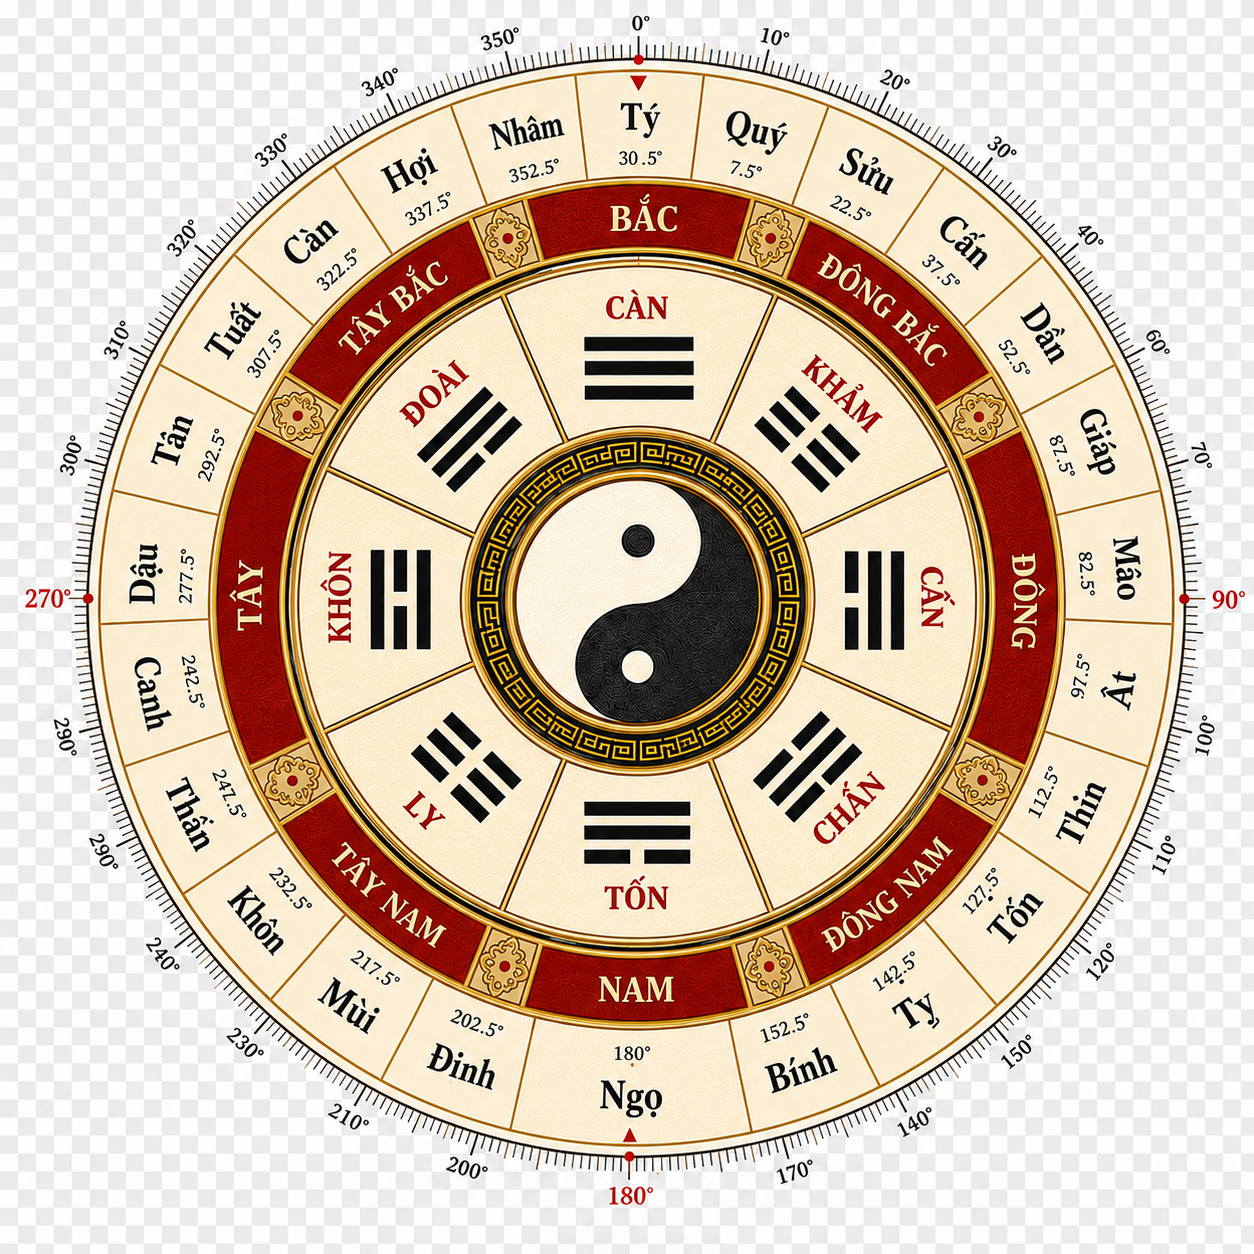
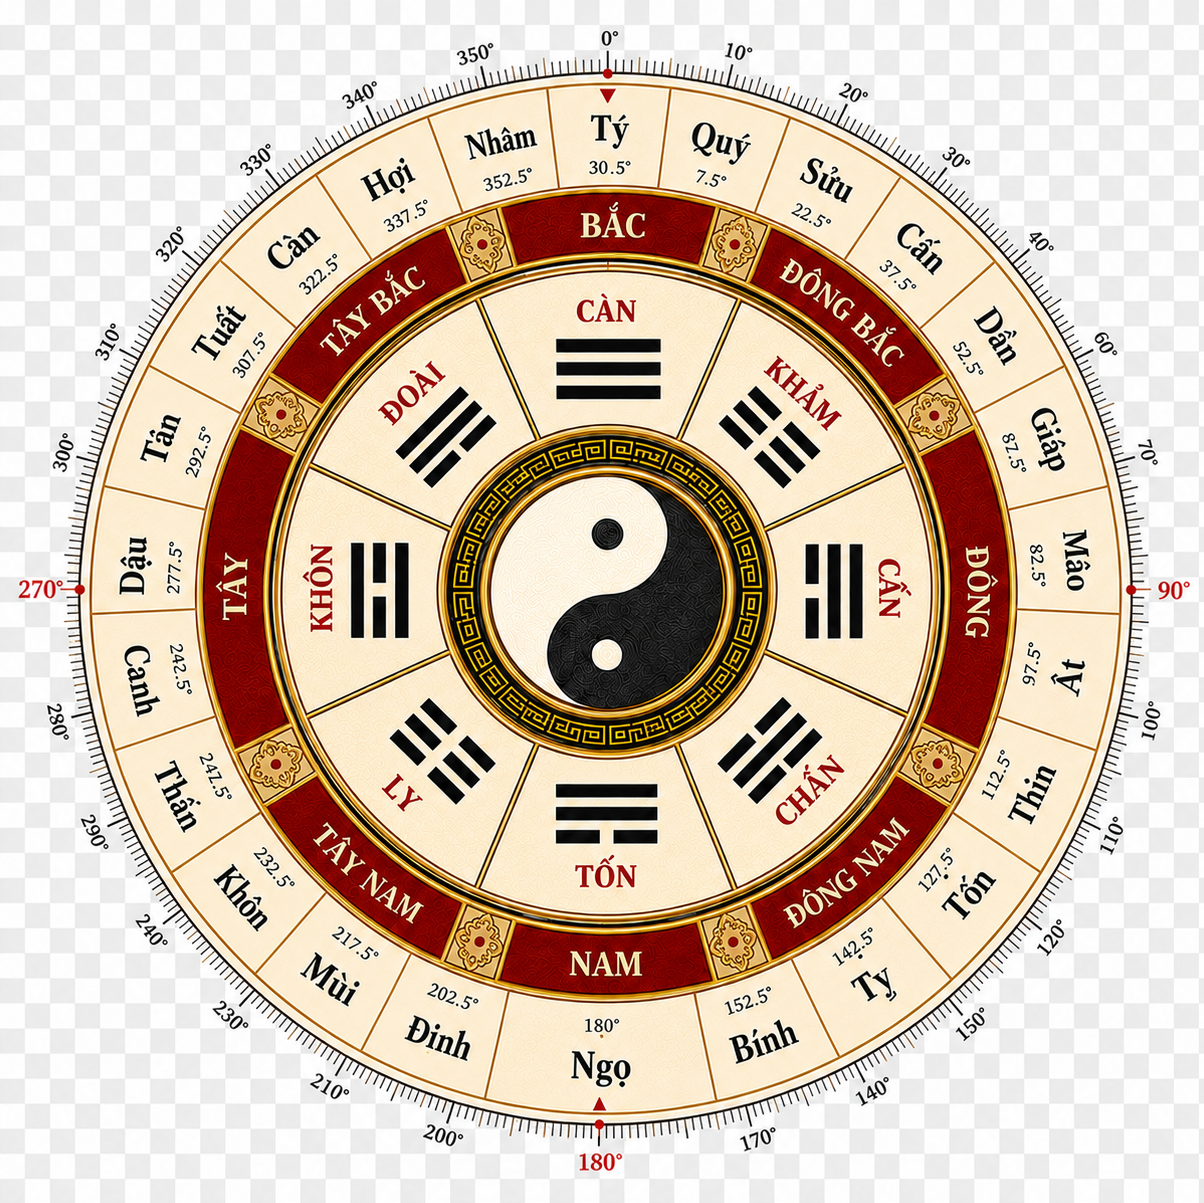
Add files via upload

diff --git a/index.html b/index.html
@@ -23,39 +23,14 @@
     
     body {
       font-family: 'Inter', sans-serif; background-color: var(--bg); color: var(--text);
-      padding: env(safe-area-inset-top) 20px 80px 20px; overflow-x: hidden; width: 100vw;
+      padding: env(safe-area-inset-top) 20px 20px 80px; overflow-x: hidden; width: 100vw;
     }
 
-    /* MÀN HÌNH KHỞI ĐỘNG (SPLASH SCREEN) ĐẲNG CẤP */
-    #sensor-overlay {
-      position: fixed; top: 0; left: 0; width: 100vw; height: 100vh;
-      background: rgba(5, 5, 5, 0.98); z-index: 9999;
-      display: flex; flex-direction: column; justify-content: center; align-items: center;
-      backdrop-filter: blur(10px); cursor: pointer;
-      transition: opacity 0.5s ease;
-    }
-    .pulse-ring {
-      width: 80px; height: 80px; border-radius: 50%;
-      border: 2px solid var(--gold);
-      animation: pulsate 2s infinite ease-out;
-      display: flex; justify-content: center; align-items: center; margin-bottom: 30px;
-    }
-    .pulse-ring::before { content: ''; width: 40px; height: 40px; background: var(--gold); border-radius: 50%; }
-    @keyframes pulsate {
-      0% { transform: scale(0.8); box-shadow: 0 0 0 0 rgba(212, 175, 55, 0.7); }
-      70% { transform: scale(1.5); box-shadow: 0 0 0 20px rgba(212, 175, 55, 0); }
-      100% { transform: scale(0.8); box-shadow: 0 0 0 0 rgba(212, 175, 55, 0); }
-    }
-    .overlay-text { color: var(--gold); font-size: 16px; font-weight: 700; letter-spacing: 2px; text-transform: uppercase; animation: blink 1.5s infinite; text-align: center; padding: 0 20px;}
-    .overlay-sub { color: #666; font-size: 11px; margin-top: 10px; letter-spacing: 1px;}
-    @keyframes blink { 0%, 100% { opacity: 1; } 50% { opacity: 0.5; } }
-
-    /* Giao diện chính */
-    .header { margin: 30px 0 25px; text-align: center; }
+    .header { margin: 20px 0; text-align: center; }
     h1 { font-size: 26px; font-weight: 800; letter-spacing: 2px; color: var(--gold); text-transform: uppercase; margin-bottom: 5px; }
     .subtitle { font-size: 11px; color: #888; text-transform: uppercase; letter-spacing: 3px; font-weight: 600;}
 
-    .input-section { background: var(--card); padding: 22px; border-radius: 20px; border: 1px solid var(--border); margin-bottom: 20px; box-shadow: 0 15px 35px rgba(0,0,0,0.8); width: 100%; }
+    .input-section { background: var(--card); padding: 22px; border-radius: 20px; border: 1px solid var(--border); margin-bottom: 20px; box-shadow: 0 15px 35px rgba(0,0,0,0.8); width: 100%; max-width: 500px; margin-left: auto; margin-right: auto;}
     .row { display: flex; gap: 15px; margin-bottom: 15px; width: 100%; }
     input, select { flex: 1; width: 100%; min-width: 0; background: #000; border: 1px solid var(--border); color: #fff; padding: 15px; border-radius: 12px; font-size: 16px; font-weight: 600; outline: none; text-align: center; font-family: 'Inter', sans-serif; }
     
@@ -66,12 +41,22 @@
     #degree-info { font-size: 46px; font-weight: 800; text-align: center; color: #fff; font-variant-numeric: tabular-nums; }
     #direction-text { font-size: 18px; color: var(--gold); text-align: center; font-weight: 700; margin-top: 5px; letter-spacing: 1px; }
 
-    #compass-wrapper { position: relative; width: 85vw; max-width: 340px; height: 85vw; max-height: 340px; margin: 10px auto 40px; }
-    #compass-container { width: 100%; height: 100%; border-radius: 50%; border: 3px solid var(--gold); padding: 5px; box-sizing: border-box; box-shadow: 0 0 40px rgba(212, 175, 55, 0.15), inset 0 0 20px rgba(0,0,0,0.8); background: #000; position: relative; overflow: hidden; }
-    #compass-face { width: 100%; height: 100%; border-radius: 50%; background: url('lakinh.png') no-repeat center; background-size: cover; transition: transform 0.1s cubic-bezier(0.25, 0.46, 0.45, 0.94); position: absolute; top: 0; left: 0; filter: brightness(1.1) contrast(1.1); }
+    /* Căn chỉnh lại để La bàn luôn tròn tuyệt đối */
+    #compass-wrapper { position: relative; width: 85vw; max-width: 350px; aspect-ratio: 1/1; margin: 10px auto 40px; }
+    #compass-container { width: 100%; height: 100%; border-radius: 50%; border: 3px solid var(--gold); padding: 4px; box-sizing: border-box; box-shadow: 0 0 40px rgba(212, 175, 55, 0.15), inset 0 0 20px rgba(0,0,0,0.8); background: #000; position: relative; overflow: hidden; display: flex; justify-content: center; align-items: center;}
+    
+    #compass-face { 
+      width: 100%; height: 100%; border-radius: 50%; 
+      background: url('lakinh.png') no-repeat center center; 
+      background-size: contain; /* Ép hình không bị lẹm viền */
+      transition: transform 0.1s cubic-bezier(0.25, 0.46, 0.45, 0.94); 
+      position: absolute; top: 0; left: 0; 
+      filter: brightness(1.05) contrast(1.1); 
+    }
+    
     #pointer { position: absolute; top: -15px; left: 50%; transform: translateX(-50%); width: 0; height: 0; border-left: 12px solid transparent; border-right: 12px solid transparent; border-bottom: 50px solid var(--bad); z-index: 10; filter: drop-shadow(0 0 10px rgba(231,76,60,0.9)); }
 
-    #result-panel { display: none; margin-top: 20px; animation: slideUp 0.6s ease; padding-bottom: 40px;}
+    #result-panel { display: none; margin-top: 20px; animation: slideUp 0.6s ease; width: 100%; max-width: 500px; margin-left: auto; margin-right: auto;}
     .card-result { background: var(--card); border: 1px solid var(--border); border-radius: 20px; padding: 22px; margin-bottom: 20px; width: 100%; }
     .title-badge { font-size: 12px; color: var(--gold); text-transform: uppercase; letter-spacing: 2px; font-weight: 800; margin-bottom: 15px; display: block; text-align: center; }
     .profile-row { display: flex; justify-content: space-between; align-items: center; margin-bottom: 18px; border-bottom: 1px solid var(--border); padding-bottom: 18px; }
@@ -95,12 +80,6 @@
 </head>
 <body>
 
-  <div id="sensor-overlay">
-    <div class="pulse-ring"></div>
-    <div class="overlay-text">Chạm màn hình để<br>đồng bộ từ trường</div>
-    <div class="overlay-sub">La Bàn Pro - Kiến Trúc Thanh Hòa</div>
-  </div>
-
   <div class="header">
     <div class="subtitle">Architectural Feng Shui Master</div>
     <h1>LA BÀN PRO</h1>
@@ -108,7 +87,7 @@
 
   <div class="input-section">
     <div class="row">
-      <input type="number" id="birthYear" placeholder="Năm sinh (Âm lịch)" pattern="\d*" value="1991">
+      <input type="number" id="birthYear" placeholder="Năm sinh" pattern="\d*" value="1991">
       <select id="gender">
         <option value="nam">Nam giới</option>
         <option value="nu">Nữ giới</option>
@@ -119,7 +98,7 @@
 
   <div class="compass-status-area">
     <div id="degree-info">--°</div>
-    <div id="direction-text">Đang đồng bộ...</div>
+    <div id="direction-text">Chạm màn hình để kết nối...</div>
   </div>
 
   <div id="compass-wrapper">
@@ -151,6 +130,7 @@
       9: { name: "Ly (Hỏa)", element: "🔥", type: "Đông Tứ Mệnh", good: {"Đông":"Sinh Khí", "Đông Nam":"Thiên Y", "Bắc":"Diên Niên", "Nam":"Phục Vị"}, bad: {"Tây Bắc":"Tuyệt Mệnh", "Tây":"Ngũ Quỷ", "Tây Nam":"Lục Sát", "Đông Bắc":"Họa Hại"} }
     };
     const napAmList = [ "Hải Trung Kim", "Lư Trung Hỏa", "Đại Lâm Mộc", "Lộ Bàng Thổ", "Kiếm Phong Kim", "Sơn Đầu Hỏa", "Giản Hạ Thủy", "Thành Đầu Thổ", "Bạch Lạp Kim", "Dương Liễu Mộc", "Tuyền Trung Thủy", "Ốc Thượng Thổ", "Tích Lịch Hỏa", "Tùng Bách Mộc", "Trường Lưu Thủy", "Sa Trung Kim", "Sơn Hạ Hỏa", "Bình Địa Mộc", "Bích Thượng Thổ", "Kim Bạch Kim", "Phúc Đăng Hỏa", "Thiên Hà Thủy", "Đại Trạch Thổ", "Thoa Xuyến Kim", "Tang Đố Mộc", "Đại Khê Thủy", "Sa Trung Thổ", "Thiên Thượng Hỏa", "Thạch Lựu Mộc", "Đại Hải Thủy" ];
+    
     function getNapAm(year) { if(year < 1924) return "Không xác định"; return napAmList[Math.floor((year - 1924) / 2) % 30]; }
     function getColors(menhString) {
       if(menhString.includes("Kim")) return { good: ["Vàng", "Nâu đất", "Trắng", "Xám"], bad: ["Đỏ", "Hồng", "Tím"] };
@@ -184,11 +164,11 @@
       setTimeout(() => { panel.scrollIntoView({ behavior: 'smooth', block: 'start' }); }, 100);
     }
 
-    /* --- LOGIC KÍCH HOẠT MÀN HÌNH CHỜ (SPLASH SCREEN) VÀ LA KINH --- */
-    const overlay = document.getElementById('sensor-overlay');
+    /* --- LOGIC KÍCH HOẠT ẨN LA KINH --- */
     const compassFace = document.getElementById('compass-face');
     const degreeInfo = document.getElementById('degree-info');
     const directionText = document.getElementById('direction-text');
+    let isCompassActivated = false;
 
     function getDirectionName(deg) {
       if (deg >= 337.5 || deg < 22.5) return "Chính Bắc (Thủy)"; if (deg >= 22.5 && deg < 67.5) return "Đông Bắc (Thổ)";
@@ -198,25 +178,24 @@
       return "";
     }
 
-    // Khi người dùng chạm vào màn hình đen "Đồng bộ từ trường"
-    overlay.addEventListener('click', function() {
+    function activateCompass() {
+      if (isCompassActivated) return;
       if (typeof DeviceOrientationEvent.requestPermission === 'function') {
         DeviceOrientationEvent.requestPermission().then(state => {
           if (state === 'granted') {
             window.addEventListener('deviceorientation', handleOrientation);
-            hideOverlay();
-          } else { alert('Vui lòng cấp quyền La Bàn để sử dụng.'); hideOverlay(); }
+            isCompassActivated = true;
+          }
         }).catch(console.error);
       } else {
         window.addEventListener('deviceorientationabsolute', handleOrientation);
-        hideOverlay();
+        isCompassActivated = true;
       }
-    });
-
-    function hideOverlay() {
-      overlay.style.opacity = '0';
-      setTimeout(() => { overlay.style.display = 'none'; }, 500);
     }
+
+    // Bất kỳ cú chạm tay nào vào màn hình đều tự động kích hoạt la bàn trong im lặng
+    document.body.addEventListener('touchstart', activateCompass, { once: true });
+    document.body.addEventListener('click', activateCompass, { once: true });
 
     function handleOrientation(e) {
       let h = e.webkitCompassHeading; 